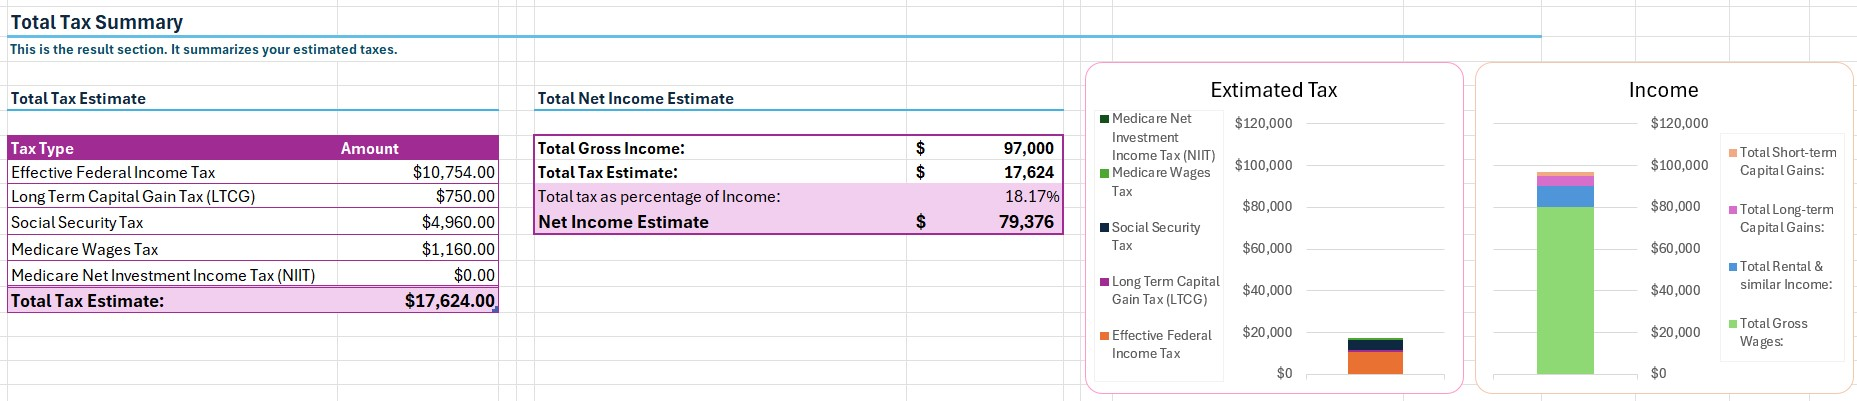
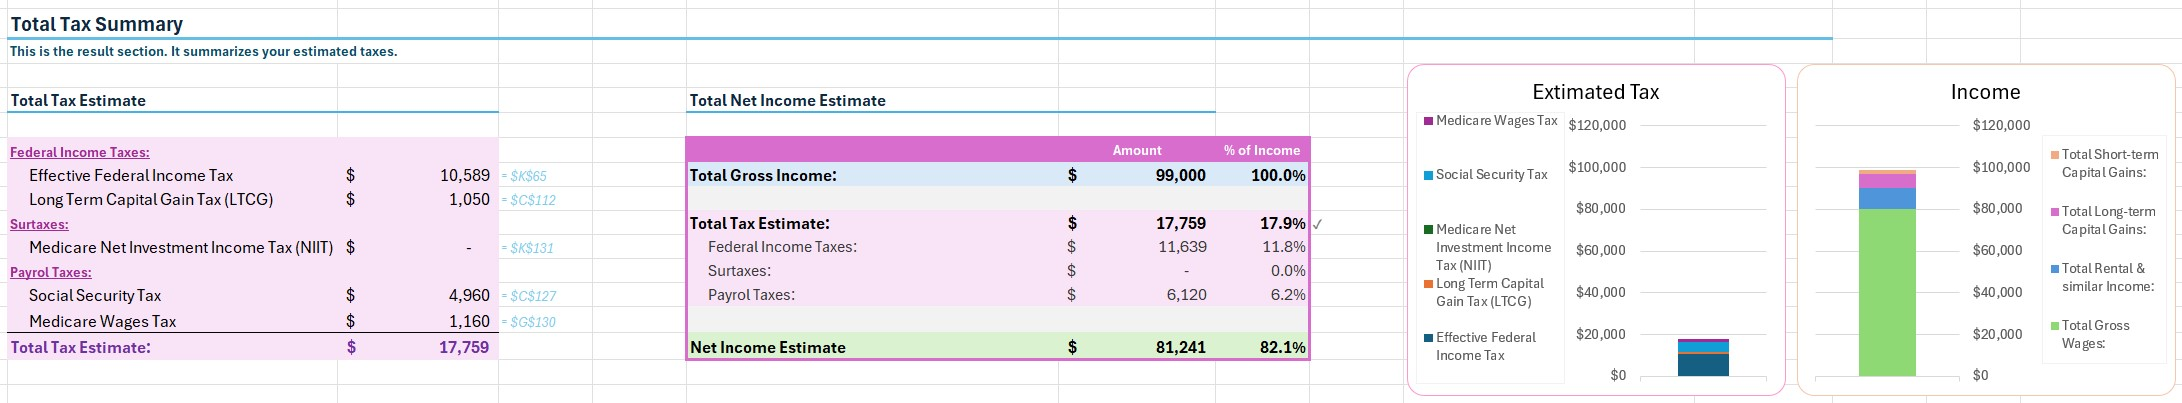
Tax summary screenshot reflects latest updates

diff --git a/docs/index.html b/docs/index.html
@@ -190,7 +190,7 @@
 
                 <h2 id="tool-is-not-qualified-tax-advice">⚠ This calculator is not a qualified tax advice.</h2>
                 <p>
-                    This tool is for estimation purposes only. It should be reasonably accurate for ~90% of employed individuals.<br />
+                    This tool is for estimation purposes only. It should be reasonably accurate for most employed individuals.<br />
                     The calculator accounts for common income types, such as W-2, capital gains, rental income, and others.
                 </p>
                 <p>For fully reliable tax calculations, especially for complex tax situations, always consult a qualified tax professional!</p>
